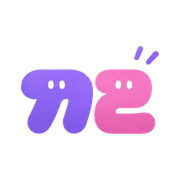
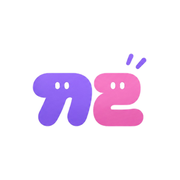
홈 화면 바로가기 아이콘의 ㄲㄹ 로고를 끼리맘 정도로 줄여 여백을 넓힘 (77% → 64%) + 사이드바 하단 표기를 Kkiri · v1.0 으로

diff --git a/index.html b/index.html
@@ -4,7 +4,7 @@
 <meta charset="utf-8">
 <meta name="viewport" content="width=device-width, initial-scale=1, viewport-fit=cover">
 <meta name="theme-color" content="#7B4DFF">
[2 lines of base64/hex data omitted]
 <meta name="description" content="끼리(Kkiri) — 내 AI와 끼리의 전문가 AI가 한 방에서 일하는 하이브리드 AI 팀.">
 <!-- 카카오톡·링크 미리보기 (OG / Twitter 카드) -->
 <meta property="og:type" content="website">
@@ -23,9 +23,9 @@
 <meta name="twitter:image" content="https://kkiri.ai.kr/og-image.png?v=2">
 <link rel="canonical" href="https://kkiri.ai.kr/">
 <!-- 홈 화면에 추가·즐겨찾기 아이콘 (ㄲㄹ 로고만, 사각 테두리 없음) -->
-<link rel="icon" type="image/png" sizes="192x192" href="icon-192.png">
-<link rel="apple-touch-icon" sizes="180x180" href="apple-touch-icon.png">
-<link rel="manifest" href="manifest.webmanifest">
+<link rel="icon" type="image/png" sizes="192x192" href="icon-192.png?v=3">
+<link rel="apple-touch-icon" sizes="180x180" href="apple-touch-icon.png?v=3">
+<link rel="manifest" href="manifest.webmanifest?v=3">
 <meta name="mobile-web-app-capable" content="yes">
 <meta name="apple-mobile-web-app-capable" content="yes">
 <meta name="application-name" content="끼리">
@@ -2528,7 +2528,7 @@ window.__KKIRI_BOOT = (function () {
       <a class="side-donate" id="sideOpenchatBtn" href="https://open.kakao.com/o/g9CKf0Xi" target="_blank" rel="noopener noreferrer" title="카카오톡 오픈채팅방 참여하기"><svg class="ico sm" aria-hidden="true" focusable="false"><use href="#i-chat"></use></svg><span>오픈채팅</span></a>
       <button type="button" class="side-donate side-feedback" id="sideFeedbackBtn" title="불편한 점·아이디어 보내기"><svg class="ico sm" aria-hidden="true" focusable="false"><use href="#i-chat"></use></svg><span>의견 보내기</span></button>
       <button type="button" class="side-donate side-install" id="sideInstallBtn" title="홈 화면에 추가 · 즐겨찾기"><svg class="ico sm" aria-hidden="true" focusable="false"><use href="#i-star"></use></svg><span>홈 화면에 추가</span></button>
-      <p class="side-version">Kkiri</p>
+      <p class="side-version">Kkiri · v1.0</p>
     </div>
   </aside>
   <div class="backdrop" id="backdrop" hidden></div>
